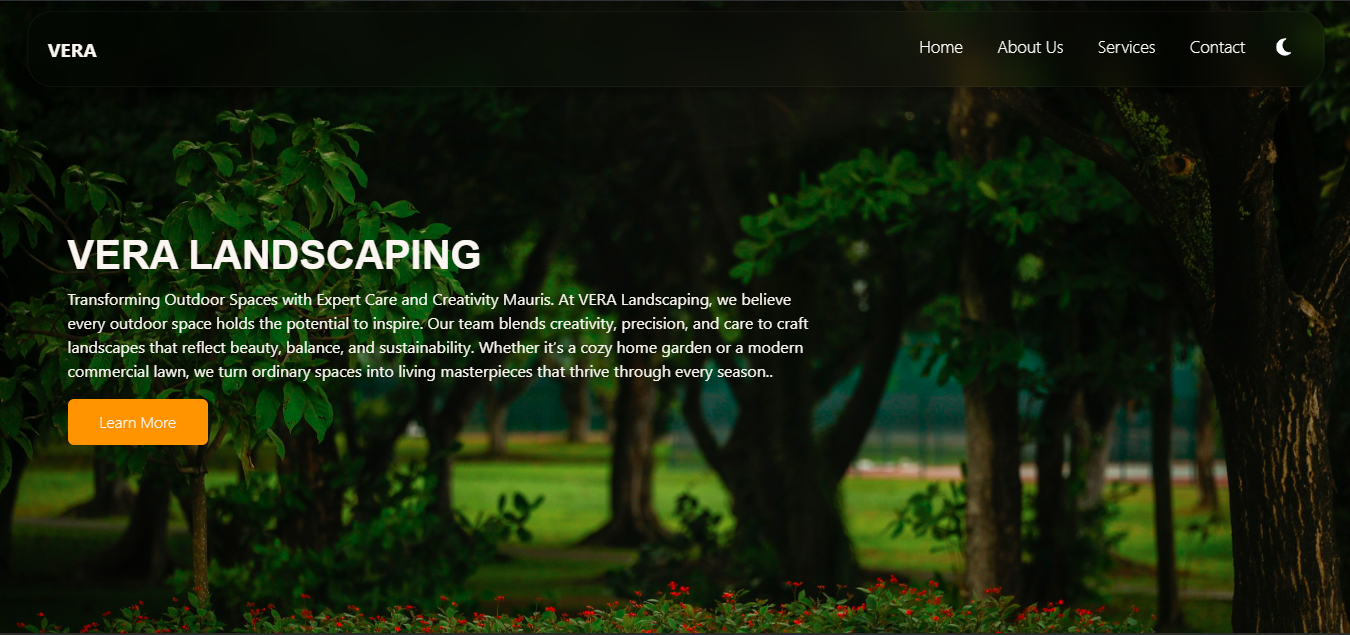
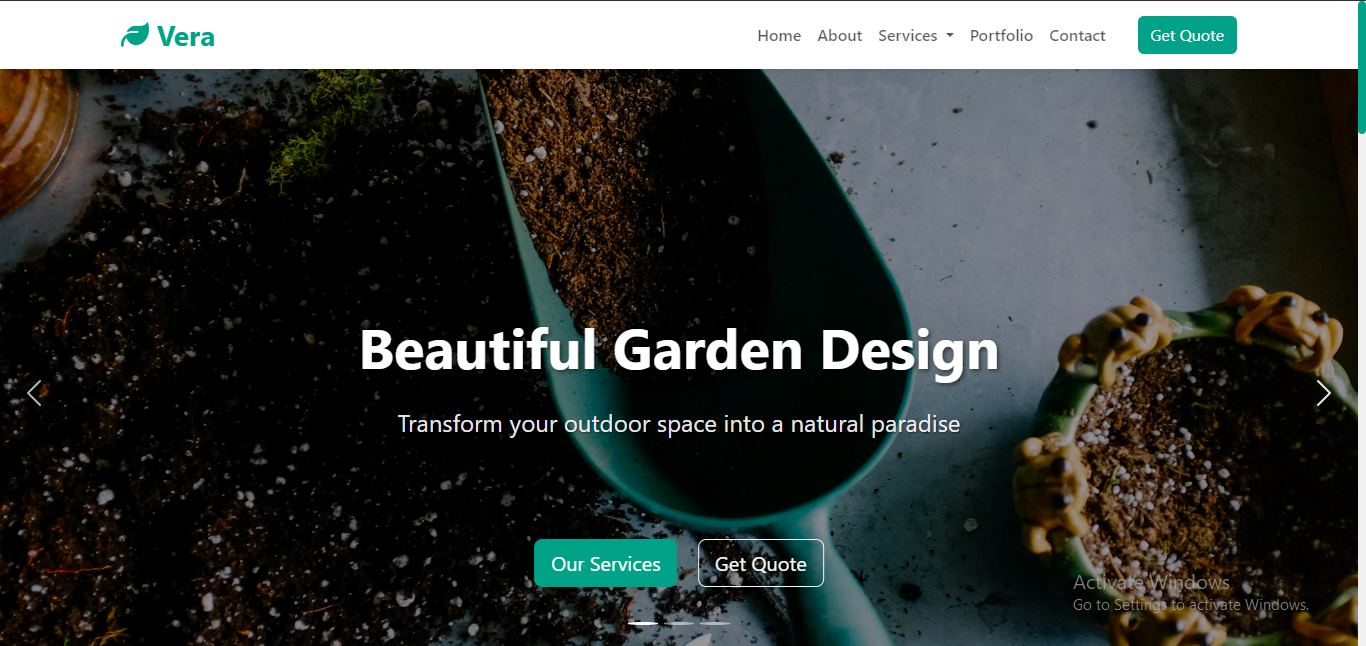
project update

diff --git a/index.html b/index.html
@@ -409,6 +409,43 @@
               <div class="cardContainer">
                 <div class="cardHead">
                   <img
+                    src="ASSETS/IMAGES/vera.png"
+                    alt="Vera landscaping screenshot"
+                    class="project-img"
+                  />
+                  <div class="cardDescription">
+                    <h4 class="projectCardHeading">Vera landscaping site</h4>
+                    <p>
+                      Vera Landscaping is a modern landscaping service focused on clean design, lawn care, and outdoor maintenance.
+                    </p>
+                    <button
+                      class="btn btn-description-code"
+                      onclick="window.open('https://github.com/vector005awolesi/landscaping' , '_blank')"
+                    >
+                      <i class="fab fa-sharp fa-github"></i> Code
+                    </button>
+                    <button
+                      class="btn btn-description-demo"
+                      onclick="window.open('https://vera-landscaping.netlify.app/' , '_blank')"
+                    >
+                      <i class="fas fa-sharp fa-paperclip"></i> Demo
+                    </button>
+                  </div>
+                </div>
+                <div class="cardBody">
+                  <p class="projectTitle">Vera landscaping</p>
+                  <div class="badge projectBadge">Web development</div>
+                  <div class="techStack">
+                    <span class="badge badge-projects">HTML</span>
+                    <span class="badge badge-projects">CSS</span>
+                    <span class="badge badge-projects">JAVASCRIPT</span>
+                    <span class="badge badge-projects">+2</span>
+                  </div>
+                </div>
+              </div>
+              <div class="cardContainer">
+                <div class="cardHead">
+                  <img
                     src="ASSETS/IMAGES/result-compiler.png"
                     alt="Result Processor web application screenshot"
                     class="project-img"
@@ -444,44 +481,7 @@
                   </div>
                 </div>
               </div>
-              <div class="cardContainer">
-                <div class="cardHead">
-                  <img
-                    src="ASSETS/IMAGES/vera.png"
-                    alt="Vera landscaping screenshot"
-                    class="project-img"
-                  />
-                  <div class="cardDescription">
-                    <h4 class="projectCardHeading">Vera landscaping site</h4>
-                    <p>
-                      A modern responsive landing page , showcasing services,
-                      portfolio with a clean nature themed engaging UI
-                    </p>
-                    <button
-                      class="btn btn-description-code"
-                      onclick="window.open('https://github.com/vector005awolesi/Vera-landscaping-website' , '_blank')"
-                    >
-                      <i class="fab fa-sharp fa-github"></i> Code
-                    </button>
-                    <button
-                      class="btn btn-description-demo"
-                      onclick="window.open('https://vera-landscaping.netlify.app/' , '_blank')"
-                    >
-                      <i class="fas fa-sharp fa-paperclip"></i> Demo
-                    </button>
-                  </div>
-                </div>
-                <div class="cardBody">
-                  <p class="projectTitle">Vera landscaping</p>
-                  <div class="badge projectBadge">Web development</div>
-                  <div class="techStack">
-                    <span class="badge badge-projects">HTML</span>
-                    <span class="badge badge-projects">CSS</span>
-                    <span class="badge badge-projects">JAVASCRIPT</span>
-                    <span class="badge badge-projects">+2</span>
-                  </div>
-                </div>
-              </div>
+              
               <div class="cardContainer">
                 <div class="cardHead">
                   <img
